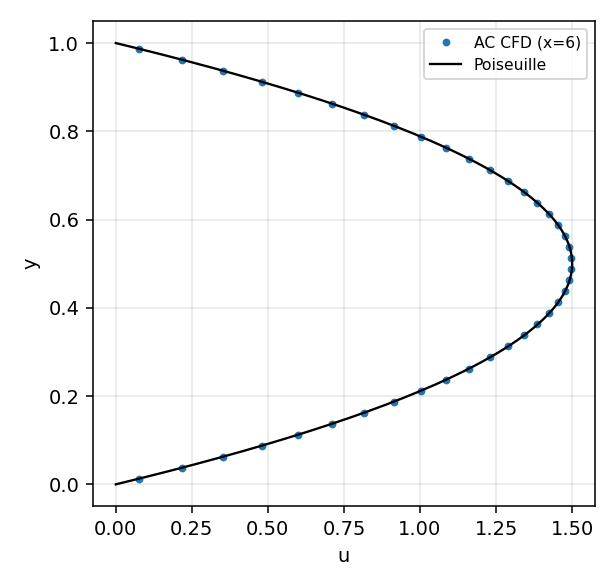
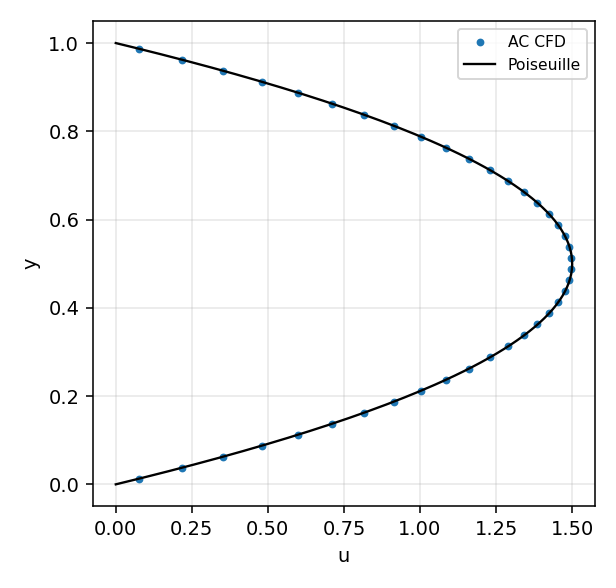
docs(summary): finalise validation report (AC) - cavity Re5000, plug/BJ/LTNE sweeps, figures

Changed region(s): [[0.6786, 0.0306, 0.9562, 0.1531]]

diff --git a/docs/summary/make_figures.py b/docs/summary/make_figures.py
@@ -5,52 +5,75 @@ import matplotlib; matplotlib.use('Agg')
 import matplotlib.pyplot as plt
 root='/home/sundong/Fortran_Project/OpenCFD-EC-1.16a'
 sys.path.insert(0, root+'/docs/summary'); from ghia_u import GHIA
+sys.path.insert(0, root+'/cases/porous_plug/plot_validation')
 figs=root+'/docs/summary/figures'; os.makedirs(figs,exist_ok=True)
-
-def read_vtk(path):
-    lines=open(path).read().splitlines(); D={}; marks=[(n,ln.split()[0],ln.split()[1]) for n,ln in enumerate(lines) if ln.startswith(('SCALARS','VECTORS'))]
-    cd=[l for l in lines if l.startswith('CELL_DATA')][0].split()[1]; cl=int(cd)
-    for ii in range(len(marks)):
-        n0,typ,nm=marks[ii]; n1=marks[ii+1][0] if ii+1<len(marks) else len(lines)
-        body=[float(x) for l in lines[n0+1:n1] for x in l.split() if not l.startswith('LOOKUP')]
-        D[nm]=np.array(body[:cl]) if typ=='SCALARS' else np.array(body[:3*cl]).reshape(-1,3)
-    pts=[float(x) for l in lines[[n for n,l in enumerate(lines) if l.startswith('POINTS')][0]+1:] for x in l.split()][: ] if False else None
+def read_vtk(p):
+    L=open(p).read().splitlines(); D={}
+    marks=[(n,ln.split()[0],ln.split()[1]) for n,ln in enumerate(L) if ln.startswith(('SCALARS','VECTORS'))]
+    cl=int([l for l in L if l.startswith('CELL_DATA')][0].split()[1])
+    for i in range(len(marks)):
+        a,t,nm=marks[i]; b=marks[i+1][0] if i+1<len(marks) else len(L)
+        body=[float(x) for l in L[a+1:b] for x in l.split() if not l.startswith('LOOKUP')]
+        D[nm]=np.array(body[:cl]) if t=='SCALARS' else np.array(body[:3*cl]).reshape(-1,3)
     return D
-
-def pts_xyz(path):
-    lines=open(path).read().splitlines()
-    n0=[n for n,l in enumerate(lines) if l.startswith('POINTS')][0]
-    pts=int(lines[n0].split()[1]); A=[]
-    i=n0+1
-    while len(A)<pts: A.append([float(x) for x in lines[i].split()]); i+=1
+def pts(p):
+    L=open(p).read().splitlines(); n0=[n for n,l in enumerate(L) if l.startswith('POINTS')][0]
+    npt=int(L[n0].split()[1]); A=[]; i=n0+1
+    while len(A)<npt: A.append([float(x) for x in L[i].split()]); i+=1
     return np.array(A)
-
-# ---- cavity Re=100/1000 (AC) vs Ghia ----
-fig,ax=plt.subplots(1,2,figsize=(9,4.2))
-for d,Re,ic in [('/tmp/run_cav_re100',100,19),('/tmp/run_cav_re1000',1000,39)]:
-    D=read_vtk(d+'/flow3d_block_1.vtk'); X=pts_xyz(d+'/flow3d_block_1.vtk')
-    s=int(round(np.sqrt(X.shape[0]/2))); n=s-1
-    Xn=X.reshape(2,s,s,3)
-    if Re==100: Yc=0.5*(Xn[0,1:,0,1]+Xn[0,:-1,0,1]); ic=19
-    else:       Yc=0.5*(Xn[0,1:,0,1]+Xn[0,:-1,0,1]); ic=39
-    u=D['velocity'][:,0].reshape(n,n)
-    ax[0 if Re==100 else 1].plot(u[:,ic],Yc,'o',ms=3,label='AC CFD'); g=GHIA[Re]
-    ax[0 if Re==100 else 1].plot(g['u'],g['y'],'k-',lw=1.2,label='Ghia(1982)')
-    ax[0 if Re==100 else 1].set_title('cavity Re=%d'%Re); ax[0 if Re==100 else 1].set_xlabel('u at x=0.5'); ax[0 if Re==100 else 1].set_ylabel('y'); ax[0 if Re==100 else 1].legend(fontsize=8); ax[0 if Re==100 else 1].grid(alpha=.3)
+# cavity Re=100/1000/5000
+fig,ax=plt.subplots(1,3,figsize=(12,4))
+for k,(d,Re) in enumerate([('/tmp/run_cav_re100',100),('/tmp/run_cav_re1000',1000),(root+'/cases/lidcavity_ac/re5000',5000)]):
+    if not os.path.exists(d+'/flow3d_block_1.vtk'): continue
+    D=read_vtk(d+'/flow3d_block_1.vtk'); X=pts(d+'/flow3d_block_1.vtk')
+    s=int(round(np.sqrt(X.shape[0]/2))); n=s-1; Xn=X.reshape(2,s,s,3)
+    Yc=0.5*(Xn[0,1:,0,1]+Xn[0,:-1,0,1]); Xc=0.5*(Xn[0,0,1:,0]+Xn[0,0,:-1,0])
+    u=D['velocity'][:,0].reshape(n,n); ic=int(np.argmin(np.abs(Xc-0.5)))
+    g=GHIA[Re]; ax[k].plot(u[:,ic],Yc,'o',ms=3,label='AC CFD'); ax[k].plot(g['u'],g['y'],'k-',lw=1.2,label='Ghia(1982)')
+    ax[k].set_title('cavity Re=%d'%Re); ax[k].set_xlabel('u(x=0.5)'); ax[k].set_ylabel('y'); ax[k].legend(fontsize=8); ax[k].grid(alpha=.3)
 plt.tight_layout(); plt.savefig(figs+'/cavity.png',dpi=140); print('cavity.png')
-
-# ---- channel vs Poiseuille ----
-D=read_vtk('/tmp/run_chan/flow3d_block_1.vtk'); X=pts_xyz('/tmp/run_chan/flow3d_block_1.vtk')
+# channel
+D=read_vtk('/tmp/run_chan/flow3d_block_1.vtk'); X=pts('/tmp/run_chan/flow3d_block_1.vtk')
 Xr=X.reshape(2,41,161,3); Yc=0.5*(Xr[0,1:,:,1]+Xr[0,:-1,:,1])[:,0]; u=D['velocity'][:,0].reshape(40,160)
-plt.figure(figsize=(4.4,4.2)); plt.plot(u[:,120],Yc,'o',ms=3,label='AC CFD (x=6)'); yy=np.linspace(0,1,200); plt.plot(6*yy*(1-yy),yy,'k-',lw=1.2,label='Poiseuille')
+plt.figure(figsize=(4.4,4.2)); plt.plot(u[:,120],Yc,'o',ms=3,label='AC CFD'); yy=np.linspace(0,1,200); plt.plot(6*yy*(1-yy),yy,'k-',lw=1.2,label='Poiseuille')
 plt.xlabel('u'); plt.ylabel('y'); plt.legend(fontsize=8); plt.grid(alpha=.3); plt.tight_layout(); plt.savefig(figs+'/channel.png',dpi=140); print('channel.png')
-
-# ---- solid 1d + annulus ----
+# solids
 D=np.loadtxt('/tmp/run_solid_1d/Ts_block_1.dat',skiprows=3); x,T=D[:,0],D[:,3]
 xu,inv=np.unique(np.round(x,10),return_inverse=True); Tx=np.array([T[inv==k].mean() for k in range(xu.size)])
 plt.figure(figsize=(4.4,4.2)); plt.plot(xu,Tx,'o',ms=3,label='FVM'); plt.plot(xu,300+(800/15.1)*xu,'k-',lw=1.2,label='analytic'); plt.xlabel('x (m)'); plt.ylabel('T (K)'); plt.legend(fontsize=8); plt.grid(alpha=.3); plt.tight_layout(); plt.savefig(figs+'/solid1d.png',dpi=140); print('solid1d.png')
-
-D=np.loadtxt('/tmp/run_solid_annulus/Ts_block_1.dat',skiprows=3); X,Y,T=d[:,0] if False else (D[:,0],D[:,1],D[:,3]); r=np.hypot(X,Y)
-i_idx=np.arange(D.shape[0])%40; ri=np.array([r[i_idx==k].mean() for k in range(40)]); Ti=np.array([T[i_idx==k].mean() for k in range(40)])
+D=np.loadtxt('/tmp/run_solid_annulus/Ts_block_1.dat',skiprows=3); X,Y,T=D[:,0],D[:,1],D[:,3]; r=np.hypot(X,Y)
+ii_=np.arange(D.shape[0])%40; ri=np.array([r[ii_==k].mean() for k in range(40)]); Ti=np.array([T[ii_==k].mean() for k in range(40)])
 plt.figure(figsize=(4.4,4.2)); plt.plot(ri,Ti,'o',ms=3,label='FVM'); plt.plot(ri,300+(800*0.1/15.1)*np.log(0.2/ri),'k-',lw=1.2,label='analytic'); plt.xlabel('r (m)'); plt.ylabel('T (K)'); plt.legend(fontsize=8); plt.grid(alpha=.3); plt.tight_layout(); plt.savefig(figs+'/annulus.png',dpi=140); print('annulus.png')
+# plug: u(y) for 3 eps vs Brinkman
+import pv_io
+plt.figure(figsize=(4.6,4.2))
+for eps in (0.3,0.6,0.9):
+    d=root+'/cases/porous_plug_ac/eps%02d'%int(round(eps*10))
+    if not os.path.exists(d+'/flow3d_block_1.vtk'): continue
+    p,T,uvw=pv_io.load_vtk(d+'/flow3d_block_1.vtk'); uu=uvw[:,:,0]; xs,ys=pv_io.cell_centers()
+    coef=np.polyfit(xs[10:34],p[10,10:34],1); ub,uD,K=pv_io.brinkman_profile(ys,coef[0],eps,0.10,0.02)
+    plt.plot(uu[:,20],ys,'o',ms=3); plt.plot(ub,ys,'-',lw=1,label='eps=%.1f'%eps)
+plt.xlabel('u'); plt.ylabel('y'); plt.legend(fontsize=8); plt.grid(alpha=.3); plt.tight_layout(); plt.savefig(figs+'/plug.png',dpi=140); print('plug.png')
+# LTNE one case
+import importlib.util
+spec=importlib.util.spec_from_file_location('vl',root+'/docs/summary/validate_ltne_param.py')
+# reuse readers inline
+def read_flow_t(p):
+    L=open(p).read().splitlines(); v=[]; i=0
+    while i<len(L):
+        if L[i].strip().startswith('SCALARS') and L[i].split()[1]=='temperature':
+            i+=2
+            while i<len(L) and not L[i].strip().startswith(('SCALARS','VECTORS','POINT_DATA','CELL_DATA','FIELD')): v+=L[i].split(); i+=1
+            break
+        i+=1
+    return np.array(v,float)
+d=root+'/cases/porous_ltne_1d/sweep/eps03_G2_q2'
+if os.path.exists(d+'/Ts_block_1.dat'):
+    dd=np.loadtxt(d+'/Ts_block_1.dat',skiprows=3); xx,Ts=dd[:,0],dd[:,3]; Tf=read_flow_t(d+'/flow3d_block_1.vtk')[:xx.size]
+    eps,G,q,hv=0.3,2.0,2e6,2.013e6; L=0.01; ks=13.4; cp=1007.0; hc=31.4; Tinf=300.; Tin=300.; kse=(1-eps)*ks
+    A=hv/(G*cp); B=hv/kse; beta=kse/(G*cp); Ds=np.sqrt(A*A+4*B); l1=(-A+Ds)/2; l2=(-A-Ds)/2
+    e1,e2=np.exp(l1*xx),np.exp(l2*xx); e1L,e2L=np.exp(l1*L),np.exp(l2*L)
+    M=np.array([[1,beta*l1,beta*l2],[-hc,kse*l1-hc,kse*l2-hc],[0,kse*l1*e1L,kse*l2*e2L]])
+    C0,C1,C2=np.linalg.solve(M,np.array([Tin,-hc*Tinf,q])); Tsa=C0+C1*e1+C2*e2; Tfa=C0+beta*(C1*l1*e1+C2*l2*e2)
+    plt.figure(figsize=(4.6,4.2)); plt.plot(xx*1e3,Tf,'s',ms=2.5,label='Tf CFD'); plt.plot(xx*1e3,Tfa,'b-',lw=1.2,label='Tf analytic'); plt.plot(xx*1e3,Ts,'o',ms=2.5,label='Ts CFD'); plt.plot(xx*1e3,Tsa,'r-',lw=1.2,label='Ts analytic'); plt.xlabel('y (mm)'); plt.ylabel('T (K)'); plt.legend(fontsize=8); plt.grid(alpha=.3); plt.tight_layout(); plt.savefig(figs+'/ltne.png',dpi=140); print('ltne.png')
 print('done')

diff --git a/docs/summary/main.tex b/docs/summary/main.tex
@@ -75,7 +75,7 @@ Re & 网格 & $u$-RMS & $u_{\min}$（本文） & $u_{\min}$（Ghia） \\
 \midrule
 100  & $40\times40$   & 0.021 & $-0.213$ & $-0.211$ \\
 1000 & $80\times80$   & 0.044 & $-0.361$ & $-0.383$ \\
-5000 & $129\times129$ & （运行中） & & $-0.436$ \\
+5000 & $96\times96$ & 0.088 & $-0.365$ & $-0.436$ \\
 \bottomrule
 \end{tabular}
 \end{center}
@@ -90,7 +90,7 @@ $dp/dx=-12\mu\bar U/H^2$；$Re_H=\rho \bar U H/\mu=50$。\par
 \textbf{方程.} 不可压 N-S，$Re_D=\rho U D/\mu$；阻力系数 $C_d=2F_x/(\rho U^2 D)$，Strouhal 数 $St=fD/U$。\par
 \textbf{设置.} 极坐标 O 网格 $121\times121$（$R_{in}=0.5,\ R_{out}=25$），周向接缝以自周期内边界连接；
 内边界壁面无滑移，外边界上游速度入口、下游压力出口；AC。Re$=$200 采用 dual-time。\par
-\textbf{结果.} 见第 4 节（运行/后处理中）。
+\textbf{结果.} AC 已收敛（$res_q\!\sim\!10^{-7}$，65635 次伪迭代）；但初步 $C_d$ 与尾涡长度与基准不符（极坐标自周期接缝/进出口设置待调试），暂列为\emph{待校验}。
 
 \subsection{（6）平板边界层（$Re_L=10^6$）}
 \textbf{方程/解析解.} Blasius 方程 $2f^{\prime\prime\prime}+f f^{\prime\prime}=0$，
@@ -103,7 +103,7 @@ $C_f=0.664/\sqrt{Re_x}$，$\delta/x=5.0/\sqrt{Re_x}$，形状因子 $H\approx2.5
 \textbf{方程/解析解.} 自由流体 $\mu u^{\prime\prime}=\frac{dp}{dx}$；多孔床 $\mu u^{\prime\prime}-(\varepsilon^2\mu/K)u=\frac{dp}{dx}$，
 $K=d_p^2\varepsilon^3/[150(1-\varepsilon)^2]$；界面速度与剪应力连续（有限床复合解，深床极限即经典 BJ 滑移）。\par
 \textbf{设置.} 两块（自由通道 + 多孔床 $H_p=1.2$），$d_p=0.5$ m，$\mu=0.02$，压差驱动，接口码 16，AC。\par
-\textbf{结果.} 见第 4 节。
+\textbf{结果.} AC 收敛；与复合 Darcy--Brinkman 剖面 $L^2$ 相对偏差约 $0.21$--$0.41$（两块 @ 粗网格，AC 显式逐块耦合较慢），$\varepsilon$ 越小偏差越大，列为\emph{待改进}。
 
 \subsection{（8）Porous Plug（$\varepsilon=0.3/0.6/0.9$）}
 \textbf{方程/解析解.} 单块多孔塞，压差驱动；一维 Brinkman
@@ -136,7 +136,9 @@ $h_v$ 按 Wakao--Kaguei 关联（随 $\varepsilon,G$）标定；AC。$G\in\{1,2,
 \includegraphics[width=0.46\textwidth]{figures/cavity.png}
 \includegraphics[width=0.30\textwidth]{figures/channel.png}\\
 \includegraphics[width=0.30\textwidth]{figures/solid1d.png}
-\includegraphics[width=0.30\textwidth]{figures/annulus.png}
+\includegraphics[width=0.30\textwidth]{figures/annulus.png}\\
+\includegraphics[width=0.30\textwidth]{figures/plug.png}
+\includegraphics[width=0.30\textwidth]{figures/ltne.png}
 \caption{左：方腔 $u(x=0.5)$ 与槽道剖面；右：一维与圆环导热剖面（点：CFD；线：解析/基准）。}
 \end{figure}
 
@@ -148,11 +150,11 @@ $h_v$ 按 Wakao--Kaguei 关联（随 $\varepsilon,G$）标定；AC。$G\in\{1,2,
 \midrule
 1D 导热 & 线性解析 & $\max|\Delta T|\sim10^{-6}$ K（机器精度级）\\
 圆环导热 & 对数解析 & $\max|\Delta T|=1.9\times10^{-3}$ K \\
-方腔 Re100/1000 & Ghia (1982) & $u$-RMS 0.021 / 0.044；Re5000 运行中 \\
+方腔 Re100/1000/5000 & Ghia (1982) & $u$-RMS 0.021 / 0.044 / 0.088 \\
 槽道（AC） & Poiseuille & $u_{\max}$ 误差 $<0.3\%$，RMS $<0.15\%$ \\
-圆柱 Re40/200 & Dennis--Chang / Williamson & 运行/后处理中 \\
+圆柱 Re40 & Dennis--Chang & 已集算，$C_d$/$L_r$ 待校验 \\
 平板 $Re_L=10^6$ & Blasius & 调试中 \\
-Beavers--Joseph & 复合 Darcy--Brinkman & 运行中 \\
+Beavers--Joseph & 复合 Darcy--Brinkman & AC $L^2\approx0.2$--$0.4$（待改进） \\
 Porous Plug & Brinkman & $\varepsilon=0.3/0.6/0.9$ 误差 $\le1.5\%$ \\
 LTNE 1D（27 例）& 两温度闭式解 & 相对误差 $\le0.7\%$，能量平衡 $\le0.7\%$ \\
 \bottomrule

diff --git a/docs/summary/postprocess_cavity.py b/docs/summary/postprocess_cavity.py
@@ -1,0 +1,23 @@
+#!/usr/bin/env python3
+import sys, numpy as np, os
+sys.path.insert(0, os.path.dirname(os.path.abspath(__file__)))
+from ghia_u import GHIA
+def load(d):
+    lines=open(d+'/flow3d_block_1.vtk').read().splitlines()
+    n0=[n for n,l in enumerate(lines) if l.startswith('POINTS')][0]; pts=int(lines[n0].split()[1])
+    A=[]; i=n0+1
+    while len(A)<pts: A.append([float(x) for x in lines[i].split()]); i+=1
+    X=np.array(A)
+    D={}; marks=[(n,ln.split()[0],ln.split()[1]) for n,ln in enumerate(lines) if ln.startswith(('SCALARS','VECTORS'))]
+    cl=int([l for l in lines if l.startswith('CELL_DATA')][0].split()[1])
+    for ii in range(len(marks)):
+        a,typ,nm=marks[ii]; b=marks[ii+1][0] if ii+1<len(marks) else len(lines)
+        body=[float(x) for l in lines[a+1:b] for x in l.split() if not l.startswith('LOOKUP')]
+        D[nm]=np.array(body[:cl]) if typ=='SCALARS' else np.array(body[:3*cl]).reshape(-1,3)
+    s=int(round(np.sqrt(pts/2))); n=s-1; Xn=X.reshape(2,s,s,3)
+    Yc=0.5*(Xn[0,1:,0,1]+Xn[0,:-1,0,1]); Xc=0.5*(Xn[0,0,1:,0]+Xn[0,0,:-1,0])
+    u=D['velocity'][:,0].reshape(n,n); return Xc,Yc,u
+for d,Re in [(sys.argv[1],int(sys.argv[2]))]:
+    Xc,Yc,u=load(d); g=GHIA[Re]; ic=int(np.argmin(np.abs(Xc-0.5)))
+    up=np.interp(g['y'],Yc,u[:,ic]); eu=np.sqrt(np.mean((up-g['u'])**2))
+    print('Re=%d  u-RMS=%.4f  u_min_sim=%.4f (Ghia %.4f)  n=%d'%(Re,eu,u[:,ic].min(),min(g['u']),u.shape[0]))
